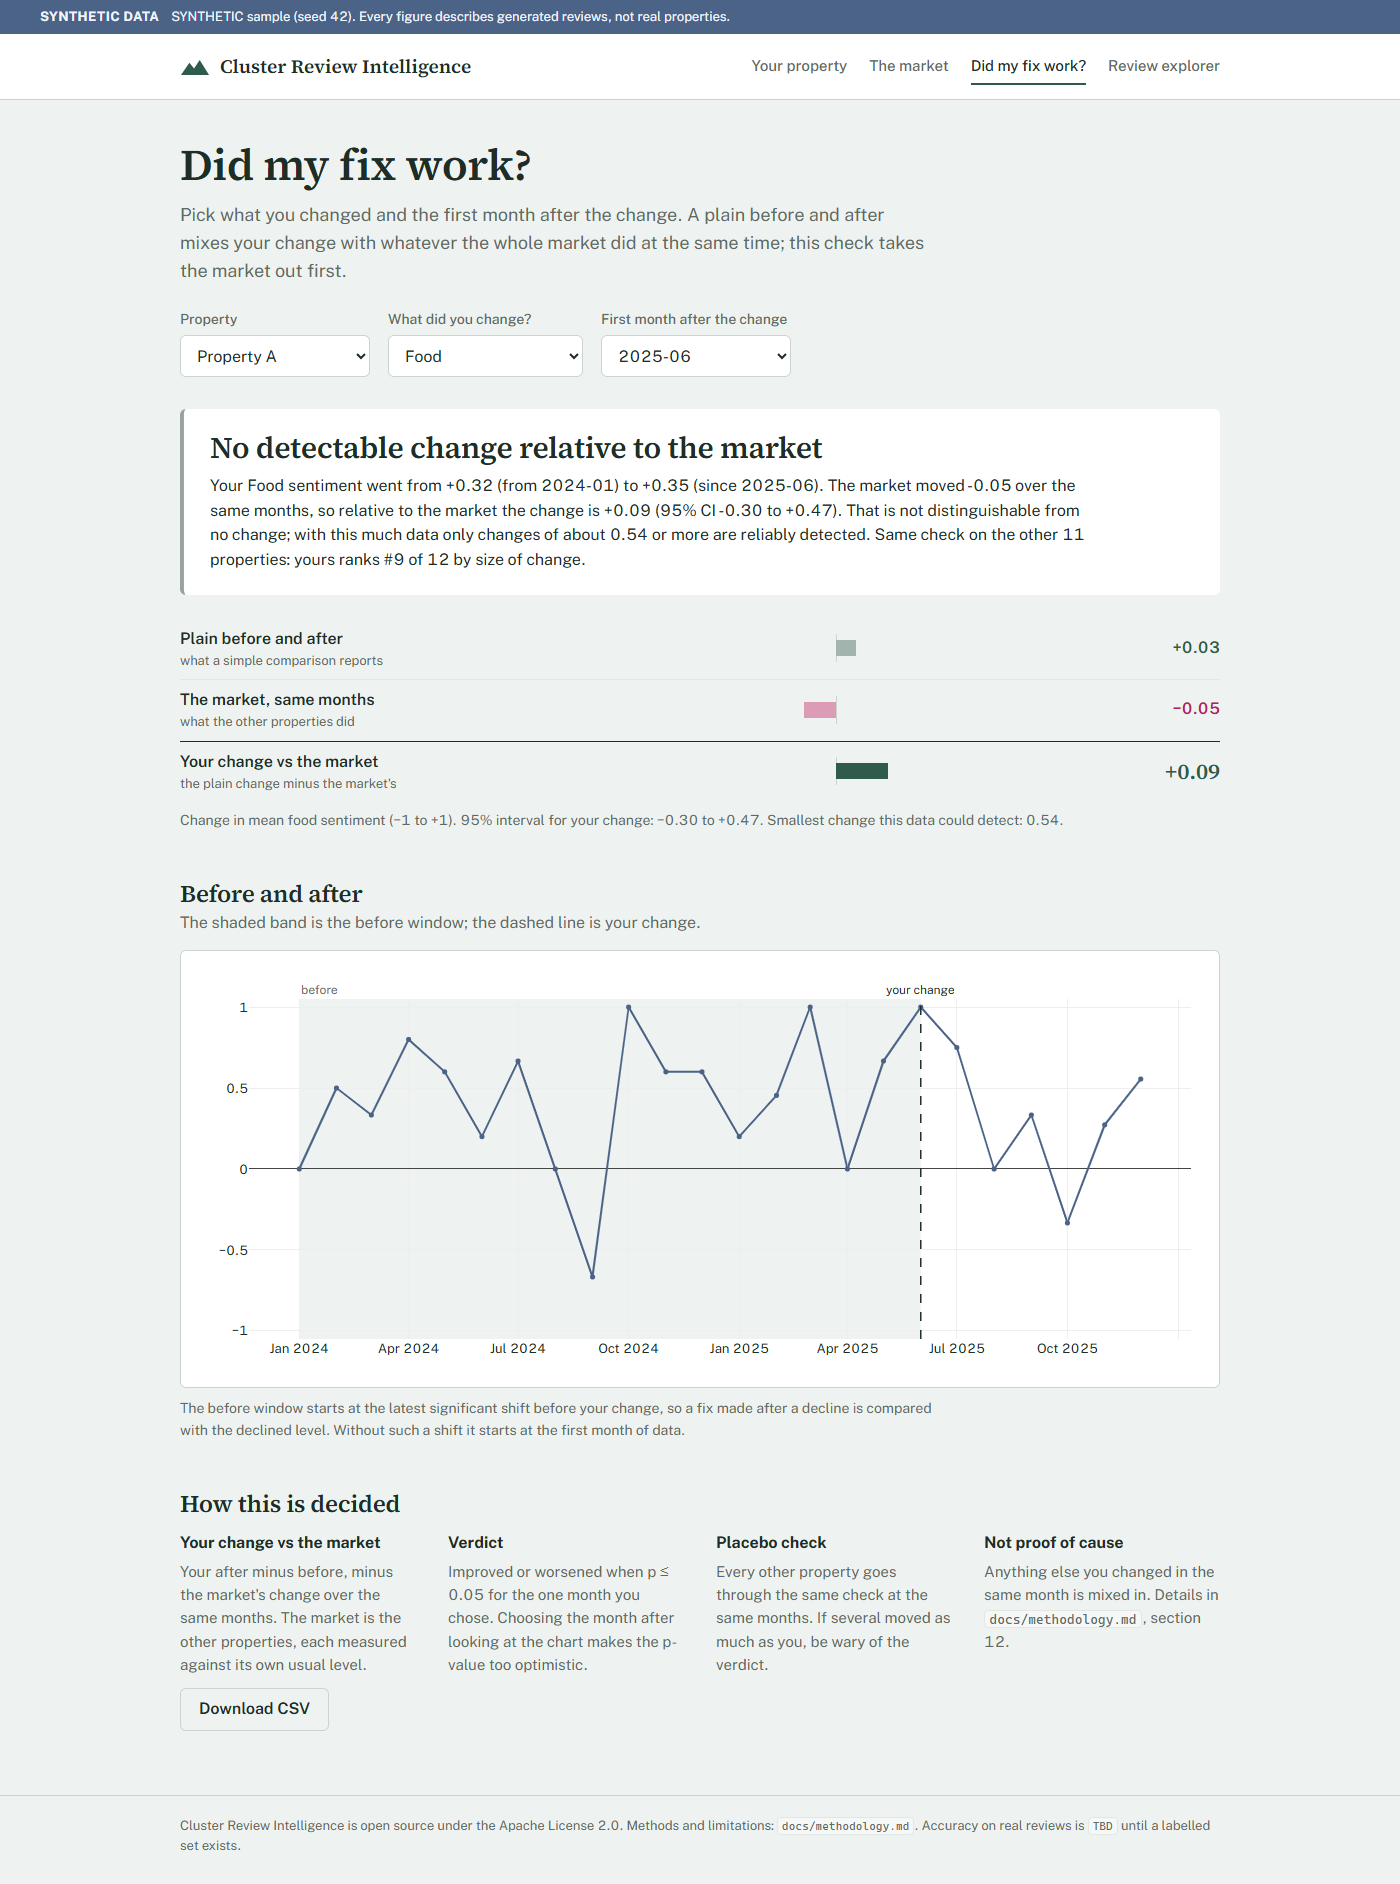
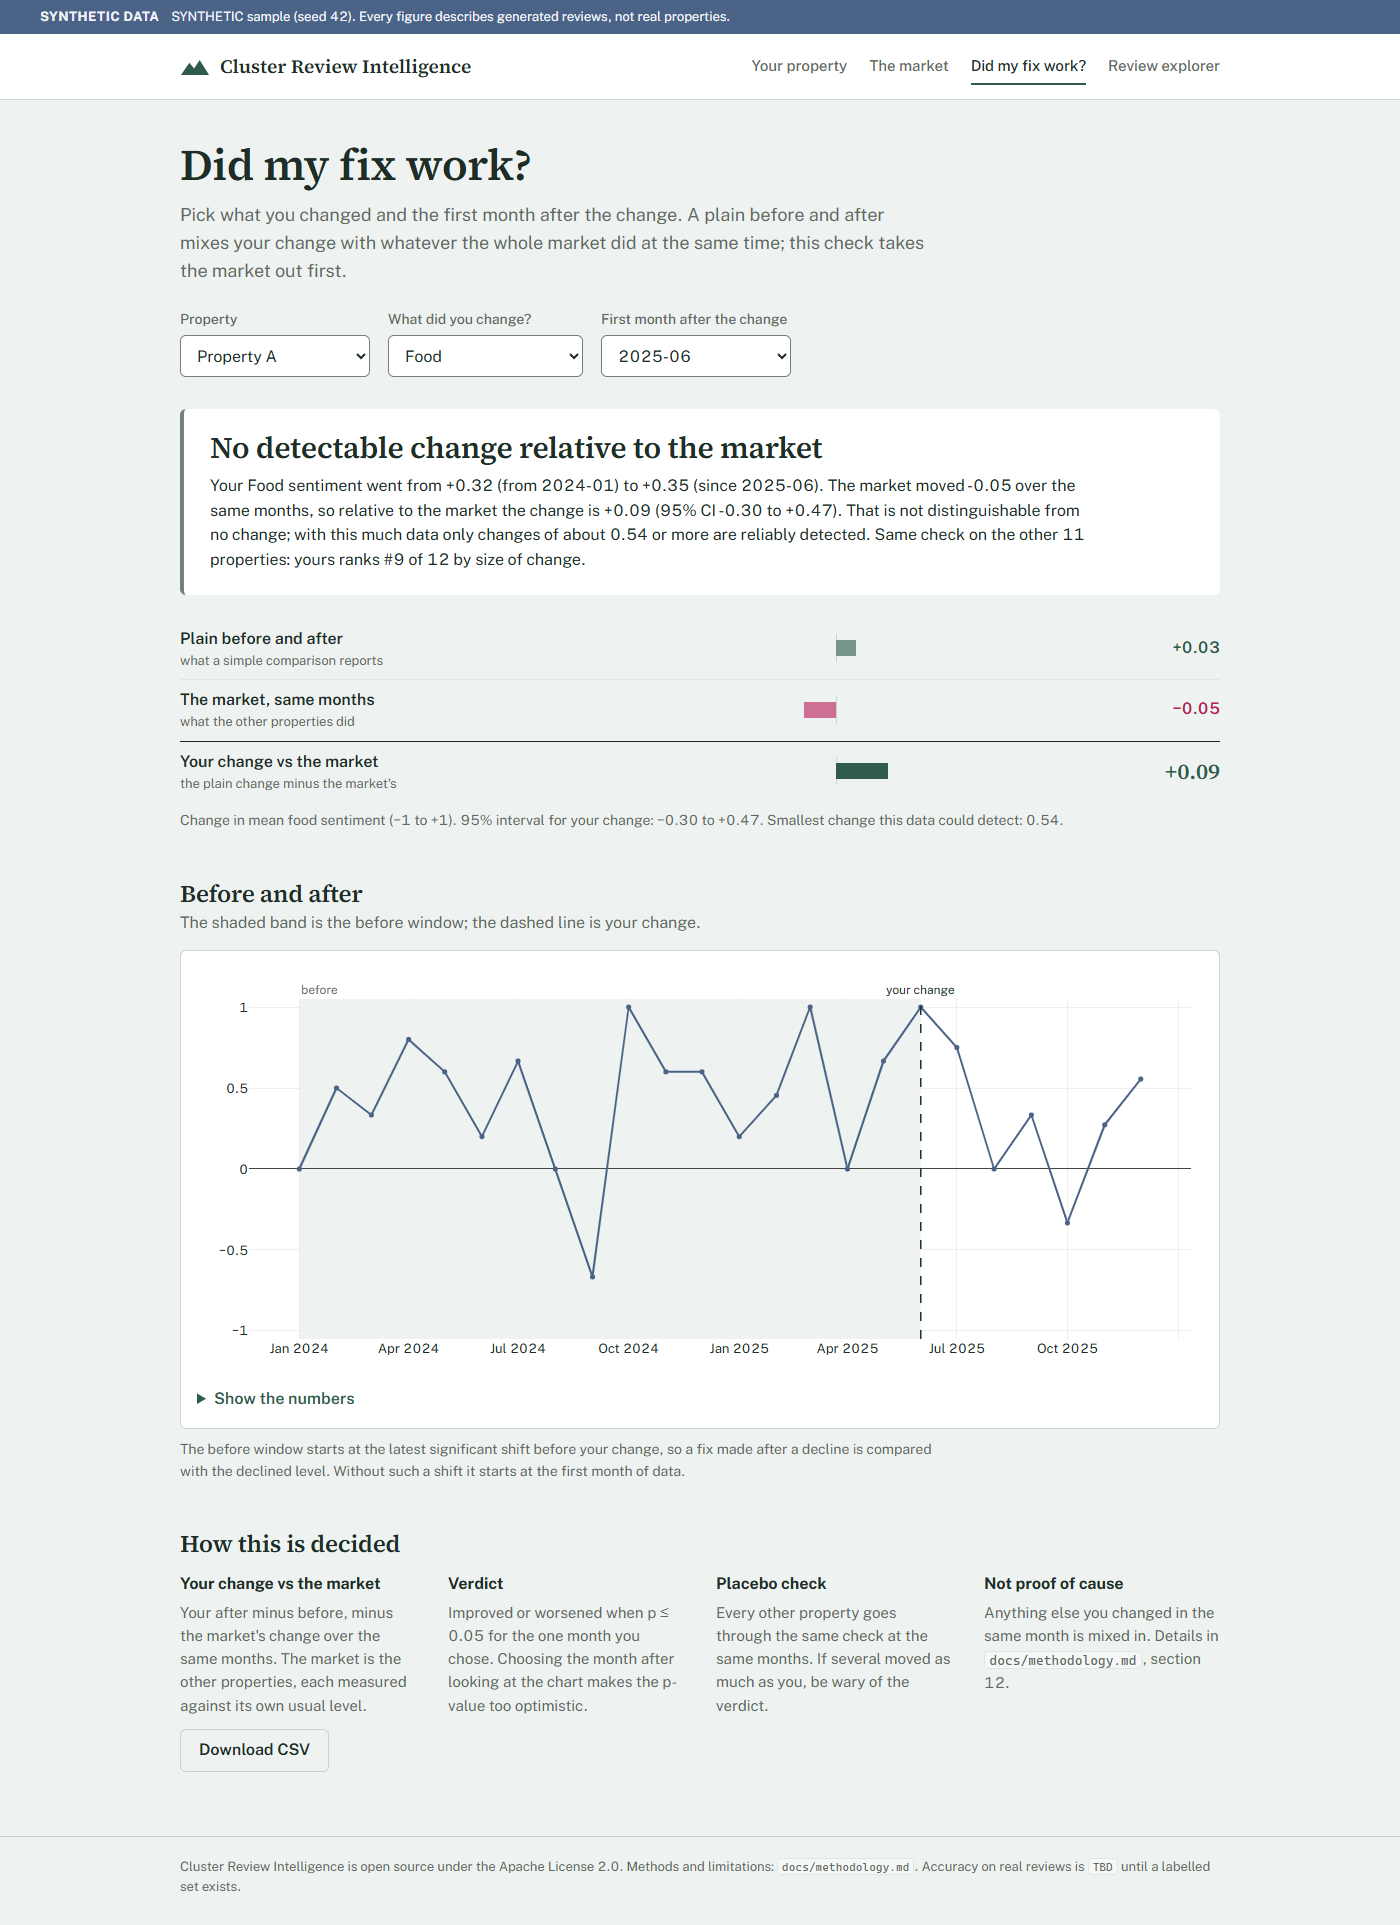
fix(web): contrast, colour-independent charts, chart text alternatives
Findings from a ui-ux-pro-max / Web Interface Guidelines review of the
redesign:
- Measured contrast: stone #97A39C (2.6:1 as a chart mark, 3.3:1 as tag
  text) becomes #737F79 (4.2:1 / 4.7:1); light change-split bars 45% ->
  65% tint (2.2:1 -> 3.3:1); form-control borders use stone (1.5:1 ->
  4.2:1), per WCAG 1.4.11.
- Charts no longer rely on colour alone: scorecard ticks say ahead /
  behind; market scopes use different marker shapes.
- Every chart has a screen-reader summary and "Show the numbers", a
  table of the values it plots.
- Chart box keeps its height while Plotly loads (no layout shift).
- Explorer search defers the ~11k-clause filter (useDeferredValue) so
  typing stays responsive.
- Ignore web/.wrangler/ local dev state.

diff --git a/web/app/property/page.tsx b/web/app/property/page.tsx
@@ -6,16 +6,20 @@ import Plot from "@/components/Plot";
 import { fmtNum, fmtPct, syncQuery, useData } from "@/lib/data";
 import {
   ChangeSplit,
+  ChartNumbers,
   DownloadCsv,
   ErrorState,
   Info,
   Loading,
   PageHeader,
   SectionHeading,
+  signed,
   Table,
   WhosePill,
 } from "@/components/ui";
 import { COLORS, FLAG_COLORS } from "@/lib/theme";
+
+const FLAG_WORD: Record<string, string> = { lead: "ahead", lag: "behind", on_par: "on par" };
 
 export default function PropertyPage() {
   const { data, error } = useData();
@@ -76,7 +80,18 @@ export default function PropertyPage() {
           hovertemplate: "%{x}<br>cluster %{y:.2f}<extra></extra>",
         },
       ],
-      layout: { yaxis: { title: "mean sentiment (−1…+1)", range: [-1.05, 1.05] } },
+      layout: {
+        yaxis: { title: "mean sentiment (−1…+1)", range: [-1.05, 1.05] },
+        xaxis: {
+          tickvals: sc.map((r) => r.aspect),
+          ticktext: sc.map((r) =>
+            r.flag === "on_par"
+              ? r.aspect
+              : `${r.aspect}<br><span style="color:${FLAG_COLORS[r.flag]}">${FLAG_WORD[r.flag] ?? r.flag}</span>`,
+          ),
+        },
+        margin: { l: 56, r: 16, t: 36, b: 64 },
+      },
     };
   }, [pdata, prop]);
 
@@ -273,7 +288,30 @@ export default function PropertyPage() {
       />
       {scorecardChart && (
         <div className="chart-panel">
-          <Plot data={scorecardChart.data} layout={scorecardChart.layout} />
+          <Plot
+            data={scorecardChart.data}
+            layout={scorecardChart.layout}
+            summary={`Mean sentiment per aspect at ${prop} against the cluster mean. ${
+              lags.length ? `Behind on ${lags.join(", ")}.` : "Behind on nothing."
+            } ${leads.length ? `Ahead on ${leads.join(", ")}.` : ""}`}
+          />
+          <ChartNumbers
+            caption={`Aspect scores for ${prop}`}
+            rows={pdata.scorecard}
+            columns={[
+              { key: "aspect", label: "Aspect" },
+              { key: "mean", label: "You", align: "right", render: (r) => signed(r.mean) },
+              {
+                key: "ci_low",
+                label: "95% interval",
+                align: "right",
+                render: (r) => (r.ci_low == null ? "—" : `${signed(r.ci_low)} to ${signed(r.ci_high)}`),
+              },
+              { key: "cluster_mean", label: "Cluster", align: "right", render: (r) => signed(r.cluster_mean) },
+              { key: "n", label: "Mentions", align: "right" },
+              { key: "flag", label: "Verdict", render: (r) => FLAG_WORD[r.flag] ?? r.flag },
+            ]}
+          />
         </div>
       )}
       <p className="caption">
@@ -303,7 +341,22 @@ export default function PropertyPage() {
       {trendChart ? (
         <>
           <div className="chart-panel">
-            <Plot data={trendChart.data} layout={trendChart.layout} />
+            <Plot
+              data={trendChart.data}
+              layout={trendChart.layout}
+              summary={`Monthly mean ${aspect} sentiment at ${prop}. ${
+                trendChart.hasCps ? "Significant shifts are marked with a dashed line." : "No significant shift."
+              }`}
+            />
+            <ChartNumbers
+              caption={`Monthly ${aspect} sentiment at ${prop}`}
+              rows={pdata.trends[aspect] ?? []}
+              columns={[
+                { key: "month", label: "Month", render: (r) => r.month.slice(0, 7) },
+                { key: "mean", label: "Mean sentiment", align: "right", render: (r) => signed(r.mean) },
+                { key: "n", label: "Mentions", align: "right" },
+              ]}
+            />
           </div>
           <p className="caption">
             {trendChart.hasCps

diff --git a/web/app/market/page.tsx b/web/app/market/page.tsx
@@ -14,6 +14,14 @@ import {
 } from "@/components/ui";
 import { COLORS, SCOPE_COLORS } from "@/lib/theme";
 
+// Shape as well as colour tells the scopes apart.
+const SCOPE_SYMBOLS: Record<string, string> = {
+  "market-wide": "circle",
+  "property-specific": "diamond",
+  undetermined: "square",
+  stable: "triangle-up",
+};
+
 export default function MarketPage() {
   const { data, error } = useData();
 
@@ -37,7 +45,12 @@ export default function MarketPage() {
         y: g.map((s) => negByAspect.get(s.aspect) ?? 0),
         text: g.map((s) => s.aspect),
         textposition: "top center",
-        marker: { size: 14, color: SCOPE_COLORS[sc] ?? COLORS.stone, line: { width: 1.5, color: COLORS.paper } },
+        marker: {
+          size: 15,
+          symbol: SCOPE_SYMBOLS[sc] ?? "circle",
+          color: SCOPE_COLORS[sc] ?? COLORS.stone,
+          line: { width: 1.5, color: COLORS.paper },
+        },
         customdata: g.map((s) => s.n_properties),
         hovertemplate:
           "%{text}<br>share of properties affected %{x:.0%}" +
@@ -106,6 +119,9 @@ export default function MarketPage() {
           />
           <div className="chart-panel">
             <Plot
+              summary={`Each aspect with a negative shift, by share of properties affected and share of mentions negative. ${data.market_scope
+                .map((s) => `${s.aspect}: ${s.scope}`)
+                .join("; ")}.`}
               height={480}
               data={chart.traces}
               layout={{

diff --git a/web/app/globals.css b/web/app/globals.css
@@ -17,7 +17,7 @@
   --deodar-deep: #234539;
   --buransh: #b4235a;
   --slate: #4a6386;
-  --stone: #97a39c;
+  --stone: #737f79;
   --marigold: #c98a12;
   --deodar-tint: #e3ede8;
   --buransh-tint: #f8e7ee;
@@ -331,7 +331,8 @@ input[type="search"] {
   padding: 8px 12px;
   background-color: var(--paper);
   color: var(--ink);
-  border: 1px solid var(--line);
+  /* Control borders need 3:1 against the field (WCAG 1.4.11); --line is for surfaces. */
+  border: 1px solid var(--stone);
   border-radius: var(--radius);
 }
 
@@ -342,7 +343,7 @@ input[type="search"] {
 
 select:hover,
 input:hover {
-  border-color: var(--stone);
+  border-color: var(--ink);
 }
 
 .standing {
@@ -637,11 +638,11 @@ input:hover {
 }
 
 .split-bar.down {
-  background: color-mix(in srgb, var(--buransh) 45%, var(--paper));
+  background: color-mix(in srgb, var(--buransh) 65%, var(--paper));
 }
 
 .split-bar.up {
-  background: color-mix(in srgb, var(--deodar) 45%, var(--paper));
+  background: color-mix(in srgb, var(--deodar) 65%, var(--paper));
 }
 
 .split-row.is-verdict .split-bar.down {
@@ -920,11 +921,25 @@ details ul {
   border-radius: var(--radius);
 }
 
+.chart-box {
+  display: grid;
+}
+
 .chart-loading {
   display: grid;
-  min-height: 300px;
+  height: 100%;
   place-items: center;
   color: var(--muted);
+}
+
+.chart-numbers {
+  margin: 4px 4px 12px;
+}
+
+.chart-numbers .table-wrap {
+  margin-top: 10px;
+  max-height: 360px;
+  overflow-y: auto;
 }
 
 .state {

diff --git a/web/app/explorer/page.tsx b/web/app/explorer/page.tsx
@@ -1,6 +1,6 @@
 "use client";
 
-import { useMemo, useState } from "react";
+import { useDeferredValue, useMemo, useState } from "react";
 import { postApi, type ApiError, type ClassifyResponse } from "@/lib/api";
 import { useData, type Mention, type Review } from "@/lib/data";
 import {
@@ -34,10 +34,13 @@ export default function ExplorerPage() {
   const [aspect, setAspect] = useState(ANY);
   const [sentiment, setSentiment] = useState(ANY);
   const [query, setQuery] = useState("");
+  // Filtering ~11k clauses per keystroke would lag the input; the box updates at once
+  // and the table follows when React has time.
+  const deferredQuery = useDeferredValue(query);
 
   const rows = useMemo<Row[]>(() => {
     if (!data) return [];
-    const q = query.trim().toLowerCase();
+    const q = deferredQuery.trim().toLowerCase();
     const aspectActive = aspect !== ANY;
     const sentActive = sentiment !== ANY;
 
@@ -77,7 +80,7 @@ export default function ExplorerPage() {
     }
     out.sort((a, b) => (a.date < b.date ? 1 : a.date > b.date ? -1 : 0));
     return out;
-  }, [data, prop, aspect, sentiment, query]);
+  }, [data, prop, aspect, sentiment, deferredQuery]);
 
   if (error) return <ErrorState message={error} />;
   if (!data) return <Loading />;

diff --git a/web/components/Plot.tsx b/web/components/Plot.tsx
@@ -15,16 +15,23 @@ interface PlotProps {
   // eslint-disable-next-line @typescript-eslint/no-explicit-any
   layout?: Record<string, any>;
   height?: number;
+  /** One-sentence description of what the chart shows, read by screen readers. */
+  summary: string;
 }
 
-export default function Plot({ data, layout = {}, height = 420 }: PlotProps) {
+export default function Plot({ data, layout = {}, height = 420, summary }: PlotProps) {
   return (
-    <Plotly
-      data={data}
-      layout={{ ...baseLayout(), height, ...layout }}
-      config={{ displayModeBar: false, responsive: true }}
-      style={{ width: "100%", height }}
-      useResizeHandler
-    />
+    // The box keeps the chart's height while Plotly loads, so nothing below it jumps.
+    // Plotly's SVG is not readable by assistive technology: the summary stands in for
+    // it, and each chart offers its numbers as a table ("Show the numbers").
+    <div className="chart-box" style={{ minHeight: height }} role="img" aria-label={summary}>
+      <Plotly
+        data={data}
+        layout={{ ...baseLayout(), height, ...layout }}
+        config={{ displayModeBar: false, responsive: true }}
+        style={{ width: "100%", height }}
+        useResizeHandler
+      />
+    </div>
   );
 }

diff --git a/web/app/fix-check/page.tsx b/web/app/fix-check/page.tsx
@@ -5,6 +5,7 @@ import Plot from "@/components/Plot";
 import { fmtNum, syncQuery, useData, useFixChecks, type FixCheck } from "@/lib/data";
 import {
   ChangeSplit,
+  ChartNumbers,
   DownloadCsv,
   ErrorState,
   Info,
@@ -203,7 +204,20 @@ export default function FixCheckPage() {
       />
       {chart ? (
         <div className="chart-panel">
-          <Plot data={chart.data} layout={chart.layout} />
+          <Plot
+            data={chart.data}
+            layout={chart.layout}
+            summary={`Monthly mean ${aspect} sentiment at ${prop}, with the before window shaded and your change at ${month}.`}
+          />
+          <ChartNumbers
+            caption={`Monthly ${aspect} sentiment at ${prop}`}
+            rows={trend ?? []}
+            columns={[
+              { key: "month", label: "Month", render: (r) => r.month.slice(0, 7) },
+              { key: "mean", label: "Mean sentiment", align: "right", render: (r) => signed(r.mean) },
+              { key: "n", label: "Mentions", align: "right" },
+            ]}
+          />
         </div>
       ) : (
         <Info>

diff --git a/web/components/ui.tsx b/web/components/ui.tsx
@@ -203,6 +203,25 @@ export function Table<T>({
   );
 }
 
+/** The data behind a chart, as a table: exact values for owners, and a text
+ * alternative for screen-reader users (Plotly's SVG is not accessible). */
+export function ChartNumbers<T>({
+  rows,
+  columns,
+  caption,
+}: {
+  rows: T[];
+  columns: Column<T>[];
+  caption: string;
+}) {
+  return (
+    <details className="chart-numbers">
+      <summary>Show the numbers</summary>
+      <Table rows={rows} columns={columns} caption={caption} />
+    </details>
+  );
+}
+
 export function DownloadCsv<T>({ rows, filename }: { rows: T[]; filename: string }) {
   function toCsv(): string {
     if (rows.length === 0) return "";

diff --git a/web/lib/theme.ts b/web/lib/theme.ts
@@ -14,7 +14,7 @@ export const COLORS = {
   deodar: "#2E5B4C",
   buransh: "#B4235A",
   slate: "#4A6386",
-  stone: "#97A39C",
+  stone: "#737F79",
   marigold: "#C98A12",
   // Semantic aliases used by the charts.
   negative: "#B4235A",

diff --git a/web/README.md b/web/README.md
@@ -80,7 +80,7 @@ charts in `lib/theme.ts`. Colours carry meaning, and the same meaning on every p
 | `--deodar` | `#2E5B4C` | Better, ahead of the cluster, improved |
 | `--buransh` (rhododendron) | `#B4235A` | Worse, behind the cluster, *yours alone* |
 | `--slate` | `#4A6386` | The market, *everyone's*; also the SYNTHETIC strip |
-| `--stone` | `#97A39C` | Neutral, on par, not tested |
+| `--stone` | `#737F79` | Neutral, on par, not tested |
 | `--mist` / `--ink` | `#EEF2F0` / `#1F2D27` | Page background / text |
 
 - **Type:** Source Serif 4 for headings, Public Sans for everything else, both
@@ -96,6 +96,12 @@ charts in `lib/theme.ts`. Colours carry meaning, and the same meaning on every p
 - **Accessibility:** skip link, visible `:focus-visible` outlines, labelled controls,
   `aria-live` on results, scrollable tables reachable by keyboard; no layout wider than
   the screen at 390 px.
+- **Contrast (WCAG 2.2 AA, measured):** text pairs are at least 4.5:1 (muted text on
+  the page background is the lowest, 4.94:1); chart marks, the change-split bars and
+  form-control borders are at least 3:1 against white. Re-check when changing a colour.
+- **Charts never rely on colour alone:** scorecard bars say *ahead* / *behind* under
+  the aspect name, market scopes differ in marker shape, and every chart has a text
+  summary for screen readers plus *Show the numbers*, a table of the values it plots.
 
 ## Notes
 
